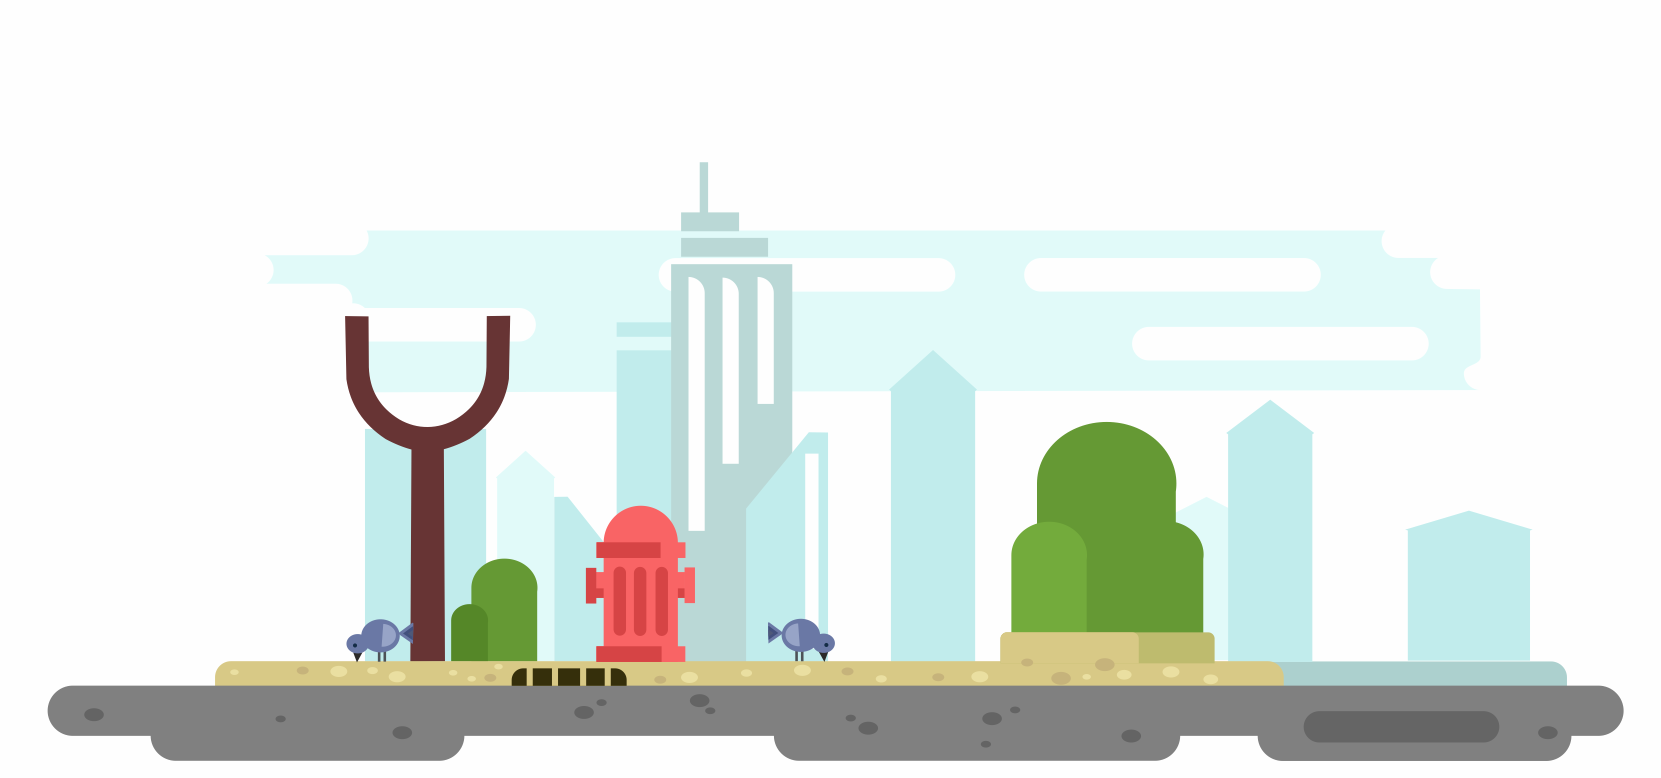
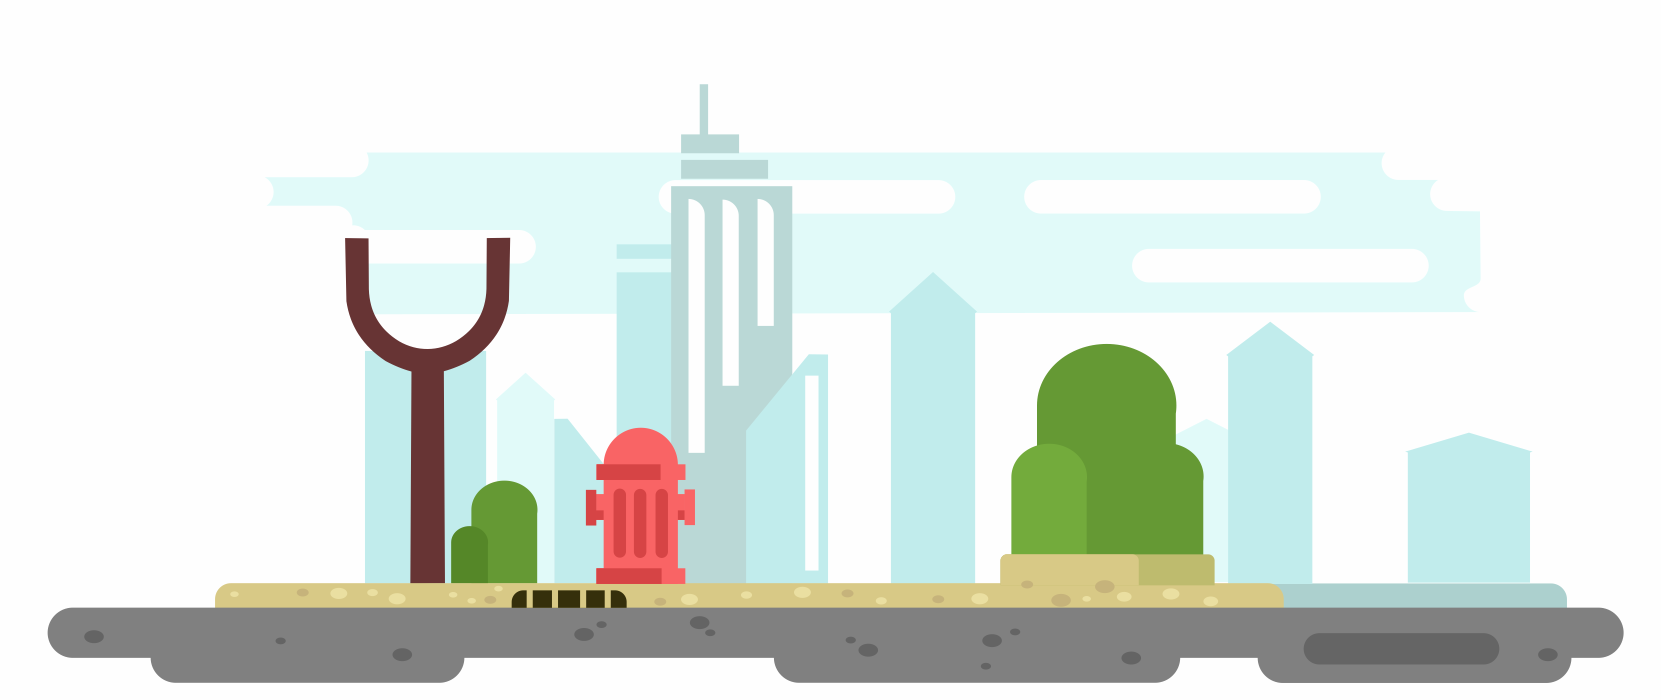
bird v2

diff --git a/main.css b/main.css
@@ -5,7 +5,7 @@ body {
 .street {
     position: relative;
     width: 1100px;
-    margin: 20px auto 0 auto;
+    margin: 50px auto 0 auto;
     overflow: hidden;
 }
 
@@ -23,12 +23,49 @@ body {
     height: 100%;
 }
 
+.street:before {
+    content: "";
+    position: absolute;
+    background: url("images/bird.png") no-repeat 50% 50%;
+    width: 50px;
+    height: 45px;
+    top: 350px;
+    left: 600px;
+    transform: scale(0.8);
+    animation: bird-second 2s infinite steps(1, start);
+}
+
+.street:after {
+    content: "";
+    position: absolute;
+    background: url("images/bird.png") no-repeat 50% 50%;
+    width: 50px;
+    height: 45px;
+    top: 350px;
+    left: 200px;
+    transform: scale(-0.8, 0.8);
+    animation: bird-second 2s infinite steps(1, start) -1s;
+}
+
+@keyframes bird-second  {
+    0% {
+        background-position: 0% 50%;
+    }
+    50% {
+        background-position: 50% 50%;
+    }
+    100% {
+        background-position: 100% 50%;
+    }
+
+}
+
 .policeman {
     width: 261px;
     height: 715px;
     position: absolute;
     background: url("images/policmen.png") no-repeat;
-    top: -50px;
+    top: -110px;
     left: 820px;
     transform: scale(0.5);
 }
@@ -57,7 +94,7 @@ body {
     height: 476px;
     width: 56px;
     position: absolute;
-    top: 45px;
+    top: -5px;
     left: 750px;
     transform: scale(0.8);
 }
